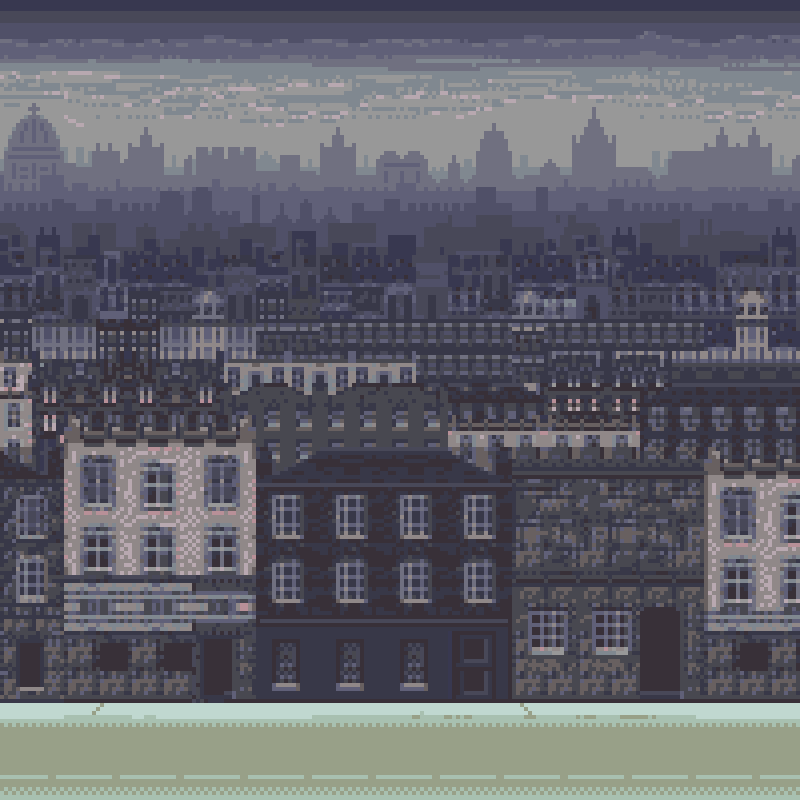
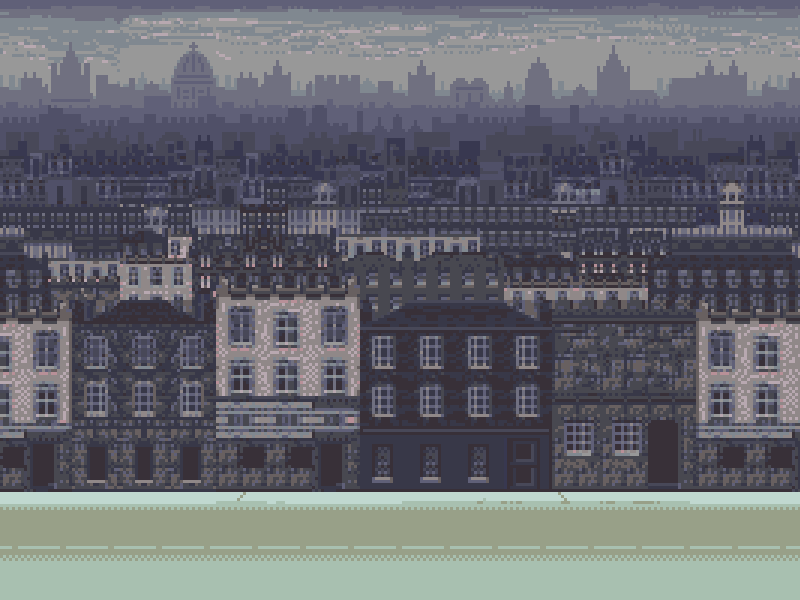
:city_sunrise: Background dimension update
:city_sunrise: Background dimension update

diff --git a/src/game.py b/src/game.py
@@ -21,7 +21,7 @@ class Game:
         self.screen = Screen(
             config.TITLE, Dimension(config.SCREEN_WIDTH, config.SCREEN_HEIGHT)
         )
-        self.tank = Tank(Coordinate(400, 740), (0, 0), self.config.IMAGE['tank'])
+        self.tank = Tank(Coordinate(400, 530), (0, 0), self.config.IMAGE['tank'])
         self.bricks: Sequence[Brick] = []
         self.bullets: Sequence[Bullet] = []
         self.hud = HUD(Coordinate(0, 0), Dimension(0, 0))

diff --git a/src/config.py b/src/config.py
@@ -5,7 +5,7 @@ class Config:
         "Custom Space Invaders - Gabriel Da Silva, Gabriel Dos Santos e Melinne Diniz"
     )
     SCREEN_WIDTH = 800  # TODO: Define screen size
-    SCREEN_HEIGHT = 800  # TODO: Define screen size
+    SCREEN_HEIGHT = 600  # TODO: Define screen size
 
 
     IMAGE = {
